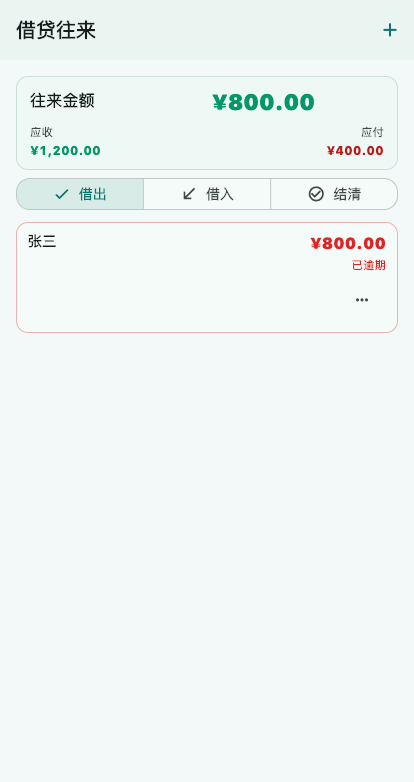
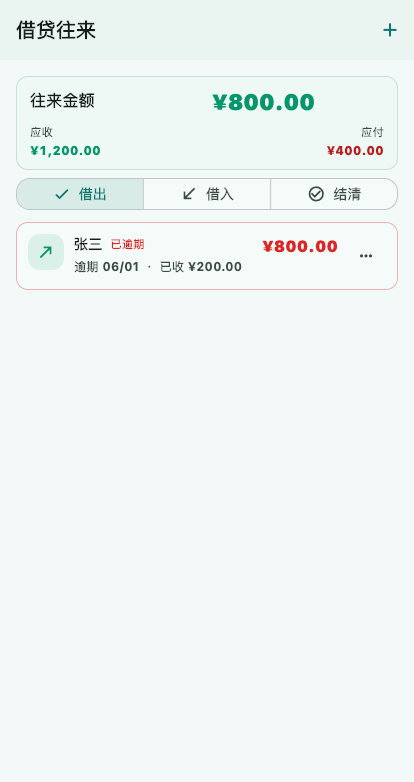
Update lending screenshot coverage

diff --git a/mobile/integration_test/premium_screens_smoke_test.dart b/mobile/integration_test/premium_screens_smoke_test.dart
@@ -1133,21 +1133,15 @@ void main() {
         await tester.pumpAndSettle();
 
         _expectTextOrScaffold('借贷往来', findsOneWidget);
-        _expectByKeyOrText(
-          key: const ValueKey('lending-relationship-hub'),
-          fallbackText: '借贷往来',
-          matcher: findsOneWidget,
-        );
-        _expectByKeyOrText(
-          key: const ValueKey('lending-risk-radar'),
-          fallbackText: '回款风险',
-          matcher: findsOneWidget,
-        );
-        _expectTextOrScaffold('往来关系中枢', findsOneWidget);
-        _expectTextOrScaffold('回款风险雷达', findsOneWidget);
-        _expectTextOrScaffoldContaining('静谧墨绿', findsOneWidget);
-        _expectTextOrScaffold('借贷往来总览', findsOneWidget);
         _expectTextOrScaffold('应收', findsAtLeastNWidgets(1));
+        _expectTextOrScaffold('应付', findsAtLeastNWidgets(1));
+        _expectTextOrScaffold('张三', findsOneWidget);
+        _expectTextOrScaffold('¥800.00', findsAtLeastNWidgets(1));
+        _expectTextOrScaffoldContaining('已收 ¥200.00', findsOneWidget);
+        expect(find.text('往来关系中枢'), findsNothing);
+        expect(find.text('回款风险雷达'), findsNothing);
+        expect(find.textContaining('证据覆盖'), findsNothing);
+        expect(find.textContaining('回款动线'), findsNothing);
         expect(find.byType(PremiumSurface), findsWidgets);
         _expectStableVisualFrame(tester);
         await _capturePremiumScreenshot(
@@ -1159,7 +1153,7 @@ void main() {
         await _scrollUntilVisibleIfPresent(tester, find.text('张三'), 280);
         await tester.pumpAndSettle();
         _expectTextOrScaffold('张三', findsOneWidget);
-        _expectTextOrScaffold('剩余 ¥800.00', findsOneWidget);
+        _expectTextOrScaffold('¥800.00', findsAtLeastNWidgets(1));
         _expectStableVisualFrame(tester);
       });
 
